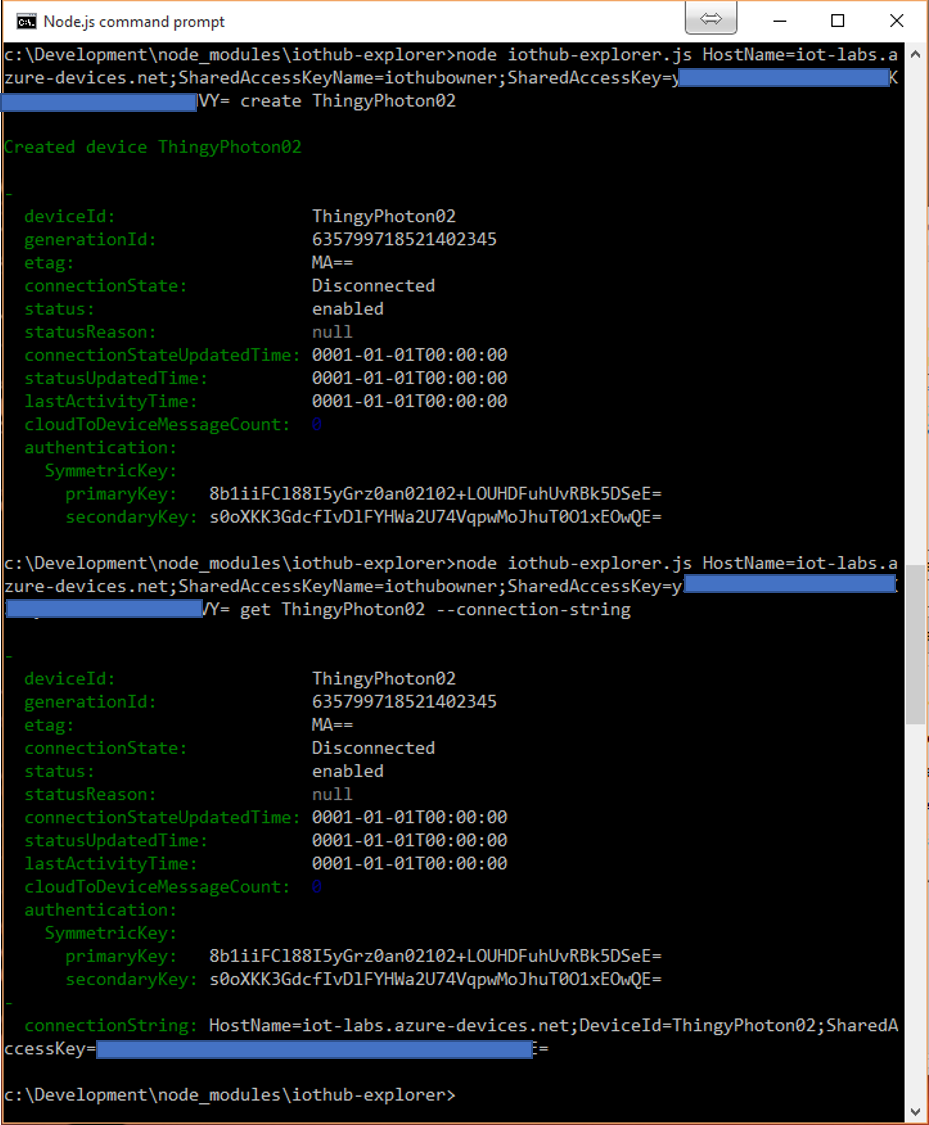
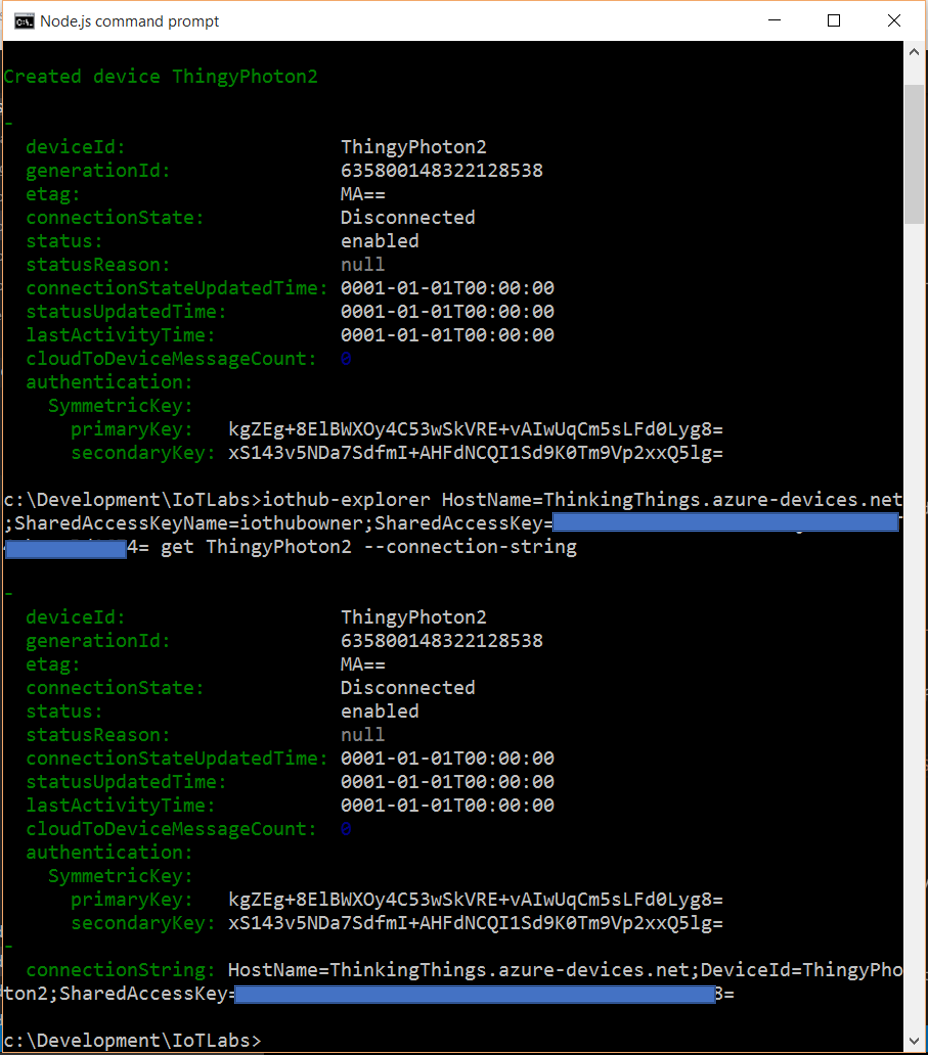
update to iothub-explorer

Changed region(s): [[0.0, 0.0, 1.0, 1.0]]

diff --git a/pages/AzureTour001.md b/pages/AzureTour001.md
@@ -190,13 +190,15 @@ If you are on a non-Windows machine, or prefer to use a command line interface i
 On Windows, open the Node.js command prompt and type the following:
 <pre>
   cd C:\Development\IoTLabs
-  npm install iothub-explorer
+  npm install -g iothub-explorer
+  npm update -g iothub-explorer
 </pre>
 
 On Mac OS X open Terminal and type the following:
 <pre>
   cd ~/Development/IoTLabs
-  sudo npm install iothub-explorer
+  sudo npm install -g iothub-explorer
+  sudo npm update -g iothub-explorer
 </pre>
 
 ## Create a New Azure IoT Device
@@ -212,31 +214,16 @@ You will see your device in the _Devices_ list. Once a device is created, you ca
 ### Create a New Azure IoT Device from the Command Line
 If you are on a non-Windows machine, or prefer to use a command line interface instead of the _DeviceExplorer_ utility, you can provision a new Azure IoT Hub device using the _iothub-explorer_ command line interface.
 
-On Windows, open the Node.js command prompt and type the following (note, the _iothub-explorer_ may be installed in a different directory for you - if you followed the instructions above, then this path should be correct):
-
-<pre>
-  cd c:\Development\node_modules\iothub-explorer
-  npm install
-</pre>
-
-On Mac OS X open Terminal and type the following:
-<pre>
-  cd ~/Development/IoTLabs/node_modules/iothub-explorer
-  sudo npm install
-</pre>
-
-After the dependencies are installed, you can execute a _create_ command to create a new device in your Azure IoT Hub. When you are using the iothub-explorer utility you must provide the connection string you copied above.
-
 In the same directory as before, using the Node.js command prompt or Terminal:
 
 <pre>
-  node iothub-explorer.js [YOUR IOT HUB CONNECTION STRING] create [YOUR PHOTON DEVICE ID/ALIAS]
+  iothub-explorer.js [YOUR IOT HUB CONNECTION STRING] create [YOUR PHOTON DEVICE ID/ALIAS]
 </pre>
 
 Once a device is created, you can get the device-specific connection string with the following command:
 
 <pre>
-  node iothub-explorer.js [YOUR IOT HUB CONNECTION STRING] get [YOUR PHOTON DEVICE ID/ALIAS] --connection-string
+  iothub-explorer.js [YOUR IOT HUB CONNECTION STRING] get [YOUR PHOTON DEVICE ID/ALIAS] --connection-string
 </pre>
 
 <img src="/images/iothub-explorer01.png"/> 
